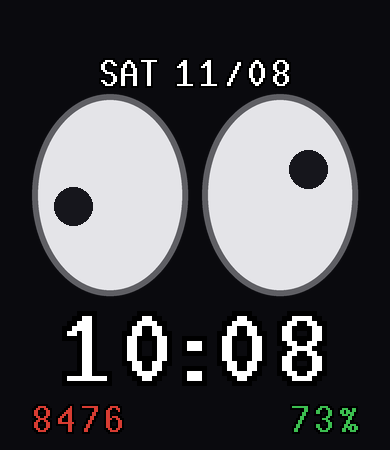
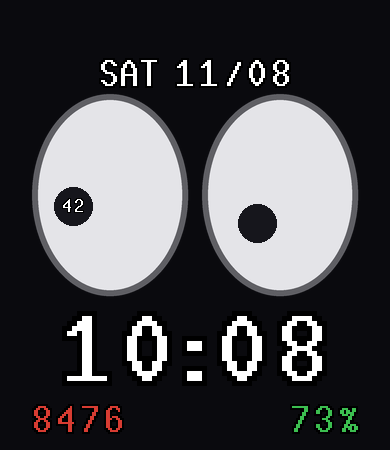
Saturday xeyes 2.0: seconds number rides inside the orbiting pupil, googly accelerometer eye
The left pupil is now moved by a 4 Hz timer instead of TIME_POINTER so the
seconds number can ride inside it without spinning. The right pupil reads
the accelerometer and rolls toward gravity like a googly eye (falls back
to a minute hand if the sensor is unavailable). Timer and sensor stop on
pause/destroy via WIDGET_DELEGATE.

Claude-Session: https://claude.ai/code/session_01Mmkrk9sDkbVzoiBDNpD5EP

Changed region(s): [[0.7385, 0.3111, 0.8615, 0.4356], [0.6154, 0.4356, 0.7077, 0.56], [0.1538, 0.4356, 0.2154, 0.4978]]

diff --git a/watchface/index.js b/watchface/index.js
@@ -1,3 +1,5 @@
+import { Accelerometer } from '@zos/sensor'
+
 const SCREEN_W = 390
 
 const digitArray = (dir) => [
@@ -180,22 +182,132 @@ function buildWeekday() {
   })
 }
 
+// xeyes geometry (from gen_assets.py)
+const EYE_L_X = 110
+const EYE_L_Y = 195
+const EYE_R_X = 280
+const EYE_R_Y = 195
+const PUPIL_ORBIT = 38 // max pupil-center offset from the eye center
+const PUPIL_C = 21 // pupil_dot.png top-left -> center
+const SEC_DIG_W = 12 // secs/ digit size
+const SEC_DIG_H = 22
+// accelerometer reading (cm/s^2) at which the googly pupil pegs its orbit:
+// ~600 is a ~37-degree tilt
+const GOOGLY_FULL = 600
+
+let secPupil = null
+let secDigit1 = null
+let secDigit2 = null
+let googlyPupil = null
+let satTimer = null
+let accel = null
+let accelOk = false
+
+function placePupil(w, cx, cy) {
+  w.setProperty(hmUI.prop.MORE, { x: cx - PUPIL_C, y: cy - PUPIL_C })
+}
+
+function tickSat() {
+  // left eye: pupil orbits with the seconds, number riding inside it
+  const s = timeSensor.second
+  const a = (s * 6 * Math.PI) / 180
+  const lx = EYE_L_X + Math.round(PUPIL_ORBIT * Math.sin(a))
+  const ly = EYE_L_Y - Math.round(PUPIL_ORBIT * Math.cos(a))
+  placePupil(secPupil, lx, ly)
+  secDigit1.setProperty(hmUI.prop.MORE, {
+    x: lx - SEC_DIG_W,
+    y: ly - SEC_DIG_H / 2,
+    src: 'secs/' + Math.floor(s / 10) + '.png'
+  })
+  secDigit2.setProperty(hmUI.prop.MORE, {
+    x: lx,
+    y: ly - SEC_DIG_H / 2,
+    src: 'secs/' + (s % 10) + '.png'
+  })
+
+  // right eye: googly — the pupil rolls toward gravity. At rest the
+  // accelerometer reads the reaction force (opposite gravity; x right,
+  // y toward 12 o'clock), so screen-down is -y and gravity-x is -x.
+  if (accelOk) {
+    let ox = 0
+    let oy = 0
+    try {
+      const v = accel.getCurrent()
+      ox = (-v.x * PUPIL_ORBIT) / GOOGLY_FULL
+      oy = (v.y * PUPIL_ORBIT) / GOOGLY_FULL
+    } catch (e) {}
+    const m = Math.sqrt(ox * ox + oy * oy)
+    if (m > PUPIL_ORBIT) {
+      ox = (ox * PUPIL_ORBIT) / m
+      oy = (oy * PUPIL_ORBIT) / m
+    }
+    placePupil(googlyPupil, EYE_R_X + Math.round(ox), EYE_R_Y + Math.round(oy))
+  } else {
+    // no accelerometer: fall back to a minute hand, like before
+    const am = (timeSensor.minute * 6 * Math.PI) / 180
+    placePupil(
+      googlyPupil,
+      EYE_R_X + Math.round(PUPIL_ORBIT * Math.sin(am)),
+      EYE_R_Y - Math.round(PUPIL_ORBIT * Math.cos(am))
+    )
+  }
+}
+
+function startSat() {
+  if (satTimer !== null) return
+  if (accel === null) {
+    try {
+      accel = new Accelerometer()
+      accelOk = true
+    } catch (e) {
+      accelOk = false
+    }
+  }
+  if (accelOk) {
+    try {
+      accel.start()
+    } catch (e) {
+      accelOk = false
+    }
+  }
+  tickSat()
+  satTimer = timer.createTimer(250, 250, tickSat)
+}
+
+function stopSat() {
+  if (satTimer !== null) {
+    timer.stopTimer(satTimer)
+    satTimer = null
+  }
+  if (accelOk) {
+    try {
+      accel.stop()
+    } catch (e) {}
+  }
+}
+
 function buildSaturday() {
-  // xeyes. The pupils are pointer hands orbiting the eye centers
-  // (sprite pivot from gen_assets.py PUPIL_POS): left eye sweeps once
-  // per minute (seconds), right eye once per hour (minutes).
+  // xeyes, live edition: a 4 Hz timer slides the pupil sprites around.
   cw(hmUI.widget.IMG, { x: 0, y: 0, src: 'bg_sat.png' })
-  cw(hmUI.widget.TIME_POINTER, {
-    second_centerX: 110,
-    second_centerY: 195,
-    second_posX: 21,
-    second_posY: 59,
-    second_path: 'pupil.png',
-    minute_centerX: 280,
-    minute_centerY: 195,
-    minute_posX: 21,
-    minute_posY: 59,
-    minute_path: 'pupil.png'
+  secPupil = cw(hmUI.widget.IMG, {
+    x: EYE_L_X - PUPIL_C,
+    y: EYE_L_Y - PUPIL_C,
+    src: 'pupil_dot.png'
+  })
+  secDigit1 = cw(hmUI.widget.IMG, {
+    x: EYE_L_X - SEC_DIG_W,
+    y: EYE_L_Y - SEC_DIG_H / 2,
+    src: 'secs/0.png'
+  })
+  secDigit2 = cw(hmUI.widget.IMG, {
+    x: EYE_L_X,
+    y: EYE_L_Y - SEC_DIG_H / 2,
+    src: 'secs/0.png'
+  })
+  googlyPupil = cw(hmUI.widget.IMG, {
+    x: EYE_R_X - PUPIL_C,
+    y: EYE_R_Y - PUPIL_C,
+    src: 'pupil_dot.png'
   })
   dateRow(52)
   cw(hmUI.widget.IMG_TIME, {
@@ -211,6 +323,7 @@ function buildSaturday() {
     minute_array: timeDigits
   })
   bottomRow()
+  startSat()
 }
 
 function buildSunday() {
@@ -246,19 +359,28 @@ WatchFace({
   build() {
     timeSensor = hmSensor.createSensor(hmSensor.id.TIME)
     render()
-    // re-check the day whenever the face wakes; rebuild on a day-class change
+    // re-check the day whenever the face wakes; rebuild on a day-class
+    // change, and run the Saturday timer only while the screen is on
     hmUI.createWidget(hmUI.widget.WIDGET_DELEGATE, {
       resume_call: function () {
         if (dayMode() !== mode) {
+          stopSat()
           widgets.forEach(function (w) {
             hmUI.deleteWidget(w)
           })
           widgets = []
           render()
+        } else if (mode === 'sat') {
+          startSat()
         }
+      },
+      pause_call: function () {
+        stopSat()
       }
     })
   },
 
-  onDestroy() {}
+  onDestroy() {
+    stopSat()
+  }
 })

diff --git a/gen_assets.py b/gen_assets.py
@@ -157,10 +157,11 @@ def make_background():
 
 
 def make_fonts():
-    for sub in ("time", "time3", "date", "week", "steps", "batt"):
+    for sub in ("time", "time3", "date", "week", "steps", "batt", "secs"):
         os.makedirs(os.path.join(OUT, sub), exist_ok=True)
     for i in range(10):
         pixel_text(str(i), 5, WHITE, os.path.join(OUT, "time", f"{i}.png"))
+        pixel_text(str(i), 1, WHITE, os.path.join(OUT, "secs", f"{i}.png"))
         pixel_text(str(i), 3, WHITE, os.path.join(OUT, "time3", f"{i}.png"))
         pixel_text(str(i), 2, WHITE, os.path.join(OUT, "date", f"{i}.png"))
         pixel_text(str(i), 2, RED, os.path.join(OUT, "steps", f"{i}.png"))
@@ -225,8 +226,9 @@ def make_gear():
 
 
 # ---- weekend faces ---------------------------------------------------------
-# Saturday: xeyes. Two eyes; the pupils are TIME_POINTER hands orbiting the
-# eye centers (left eye = seconds, 1 rev/min; right eye = minutes, 1 rev/hr).
+# Saturday: xeyes. index.js moves the pupil sprites with setProperty on a
+# timer: the left pupil orbits with the seconds (number riding inside it),
+# the right pupil rolls toward gravity from the accelerometer.
 EYE_L = (110, 195)
 EYE_R = (280, 195)
 EYE_RX, EYE_RY = 72, 95
@@ -250,19 +252,18 @@ def make_bg_sat():
     return bg
 
 
-def make_pupil():
-    """Pointer sprite: dark pupil disc at the top, pivot PUPIL_ORBIT below
-    its center, so the OS swings it around the eye center like xeyes."""
+def make_pupil_dot():
+    """Plain pupil disc sprite; index.js places it by its top-left corner,
+    so the center offset is half the sprite size."""
     pad = 2
     w = 2 * (PUPIL_R + pad)
-    h = PUPIL_R + pad + PUPIL_ORBIT + 4
-    layer = Image.new("RGBA", (w * SS, h * SS), (0, 0, 0, 0))
+    layer = Image.new("RGBA", (w * SS, w * SS), (0, 0, 0, 0))
     d = ImageDraw.Draw(layer)
-    c = PUPIL_R + pad
-    d.ellipse([(c - PUPIL_R) * SS, (c - PUPIL_R) * SS,
-               (c + PUPIL_R) * SS, (c + PUPIL_R) * SS], fill=(22, 22, 28, 255))
-    layer.resize((w, h), Image.LANCZOS).save(os.path.join(OUT, "pupil.png"))
-    return c, c + PUPIL_ORBIT  # pivot for second/minute_posX/posY
+    c = (PUPIL_R + pad) * SS
+    d.ellipse([c - PUPIL_R * SS, c - PUPIL_R * SS,
+               c + PUPIL_R * SS, c + PUPIL_R * SS], fill=(22, 22, 28, 255))
+    layer.resize((w, w), Image.LANCZOS).save(os.path.join(OUT, "pupil_dot.png"))
+    return w // 2  # top-left -> center offset for index.js
 
 
 # Sunday: cowsay, time in the speech bubble. Everything but the live digits
@@ -327,14 +328,19 @@ def date_row_preview(img, week_png, y):
 def make_preview_sat(bg):
     img = bg.copy()
     date_row_preview(img, "week/5.png", DATE_Y)
-    # pupils at 10:08:42 — seconds 42 → 252°, minutes 8 → 48°
     d = ImageDraw.Draw(img)
-    for (cx, cy), deg in ((EYE_L, 252), (EYE_R, 48)):
-        a = math.radians(deg)
-        px_ = cx + PUPIL_ORBIT * math.sin(a)
-        py = cy - PUPIL_ORBIT * math.cos(a)
+    # left pupil at second 42 (252°) with the number riding inside;
+    # right pupil rolled toward gravity, down-left
+    a = math.radians(252)
+    lx = EYE_L[0] + PUPIL_ORBIT * math.sin(a)
+    ly = EYE_L[1] - PUPIL_ORBIT * math.cos(a)
+    rx = EYE_R[0] - PUPIL_ORBIT * 0.60
+    ry = EYE_R[1] + PUPIL_ORBIT * 0.75
+    for px_, py in ((lx, ly), (rx, ry)):
         d.ellipse([px_ - PUPIL_R, py - PUPIL_R, px_ + PUPIL_R, py + PUPIL_R],
                   fill=(22, 22, 28, 255))
+    paste_on(img, "secs/4.png", int(lx) - 12, int(ly) - 11)
+    paste_on(img, "secs/2.png", int(lx), int(ly) - 11)
     x = 57
     for p in ("time/1.png", "time/0.png", "time/colon.png", "time/0.png", "time/8.png"):
         x += paste_on(img, p, x, 296)
@@ -425,15 +431,17 @@ if __name__ == "__main__":
 
     # weekend faces
     bg_sat = make_bg_sat()
-    pupil_px, pupil_py = make_pupil()
+    pupil_c = make_pupil_dot()
     bg_sun, TIME3_X = make_bg_sun()
     make_preview_sat(bg_sat)
     make_preview_sun(bg_sun, TIME3_X)
 
     print("assets written to", OUT)
+    secd = Image.open(os.path.join(OUT, "secs", "0.png"))
     print(f"weekend constants: EYE_L={EYE_L} EYE_R={EYE_R} "
-          f"PUPIL_POS=({pupil_px},{pupil_py}) TIME3_X={TIME3_X} TIME3_Y={TIME3_Y} "
-          f"BOTTOM_Y={BOTTOM_Y}")
+          f"PUPIL_ORBIT={PUPIL_ORBIT} PUPIL_C={pupil_c} "
+          f"SEC_DIG={secd.width}x{secd.height} "
+          f"TIME3_X={TIME3_X} TIME3_Y={TIME3_Y} BOTTOM_Y={BOTTOM_Y}")
     print(f"index.js constants: WEEK_X={DATE_X} DATE_Y={DATE_Y} "
           f"MONTH_X={DATE_X + week_w + DATE_GAP} TIME_X={(W - time_w) // 2} TIME_Y={TIME_Y} "
           f"GEAR_CENTER=({GEAR_CX},{GEAR_CY}) GEAR_POS={GEAR_SIZE // 2} "

diff --git a/README.md b/README.md
@@ -7,8 +7,9 @@ day of week:
 - **Mon–Fri: glxgears** — the green gear is the second hand (one revolution
   per minute, white marker tooth at 12 o'clock on the minute), with seconds
   in its hub, plus date, steps, battery %, and moon phase.
-- **Saturday: xeyes** — the pupils are pointer hands: left eye orbits once
-  per minute (seconds), right eye once per hour (minutes).
+- **Saturday: xeyes** — the left pupil orbits with the seconds and carries
+  the seconds number inside it; the right pupil is a googly eye that rolls
+  toward gravity (accelerometer).
 - **Sunday: cowsay** — the cow says the time.
 
 ## Layout
